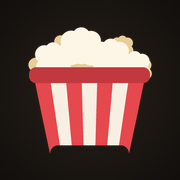
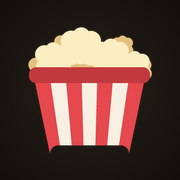
Warm the popcorn toward the app's butter accent
The kernels read as near-white, close enough to the bucket's cream stripes
that the boundary between popcorn and bucket went mushy at small sizes.

Shifts both kernel tones toward --butter (#e3b04b): front #fdf6e7 -> #fcedc2,
back #e8cd98 -> #e4c180. The stripes stay white, so it remains a classic
red-and-white bucket. Regenerates every icon from the shared palette.

Changed region(s): [[0.1667, 0.1389, 0.8333, 0.3889]]

diff --git a/tools/make_icons.py b/tools/make_icons.py
@@ -27,8 +27,8 @@ BG_OUTER = (14, 12, 10)      # #0e0c0a  (--bg)
 TOMATO = (229, 72, 77)       # #e5484d  (--tomato)
 TOMATO_DARK = (193, 57, 62)  # rim, for definition against the stripes
 CREAM = (247, 239, 226)      # #f7efe2  stripe white
-POP_LIGHT = (253, 246, 231)  # front kernels
-POP_SHADE = (232, 205, 152)  # back kernels, butter-tinted for depth
+POP_LIGHT = (252, 237, 194)  # front kernels, warmed toward --butter
+POP_SHADE = (228, 193, 128)  # back kernels, deeper butter for depth
 
 S = 512  # logical coordinate space
 
